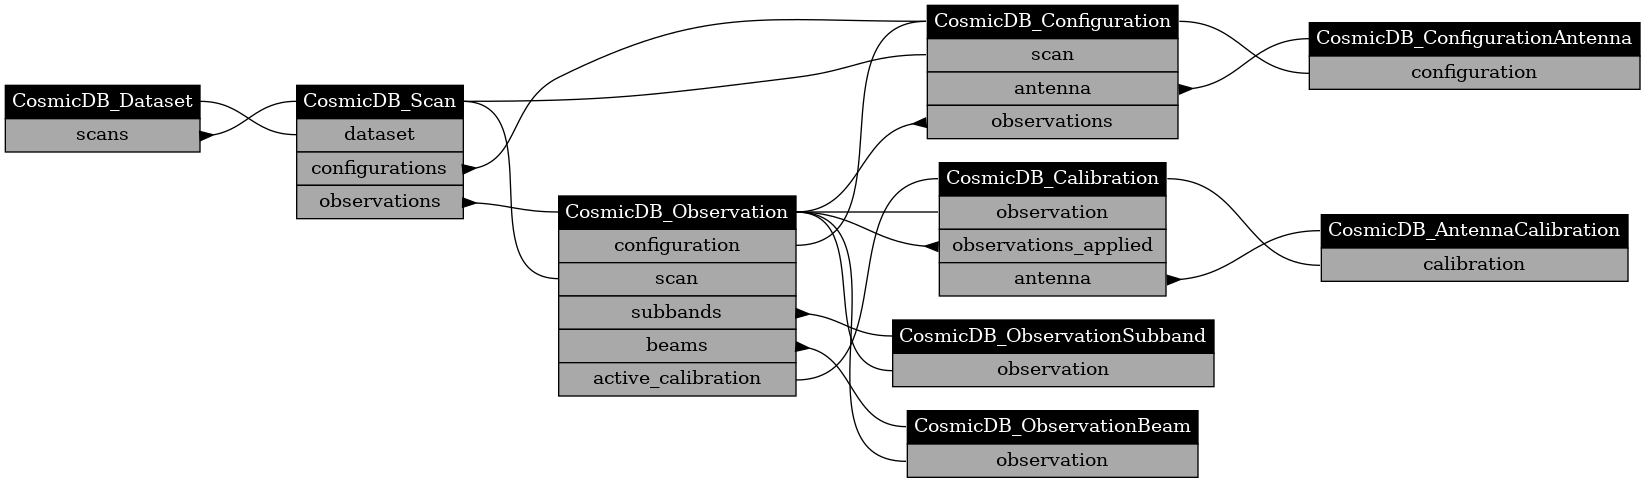
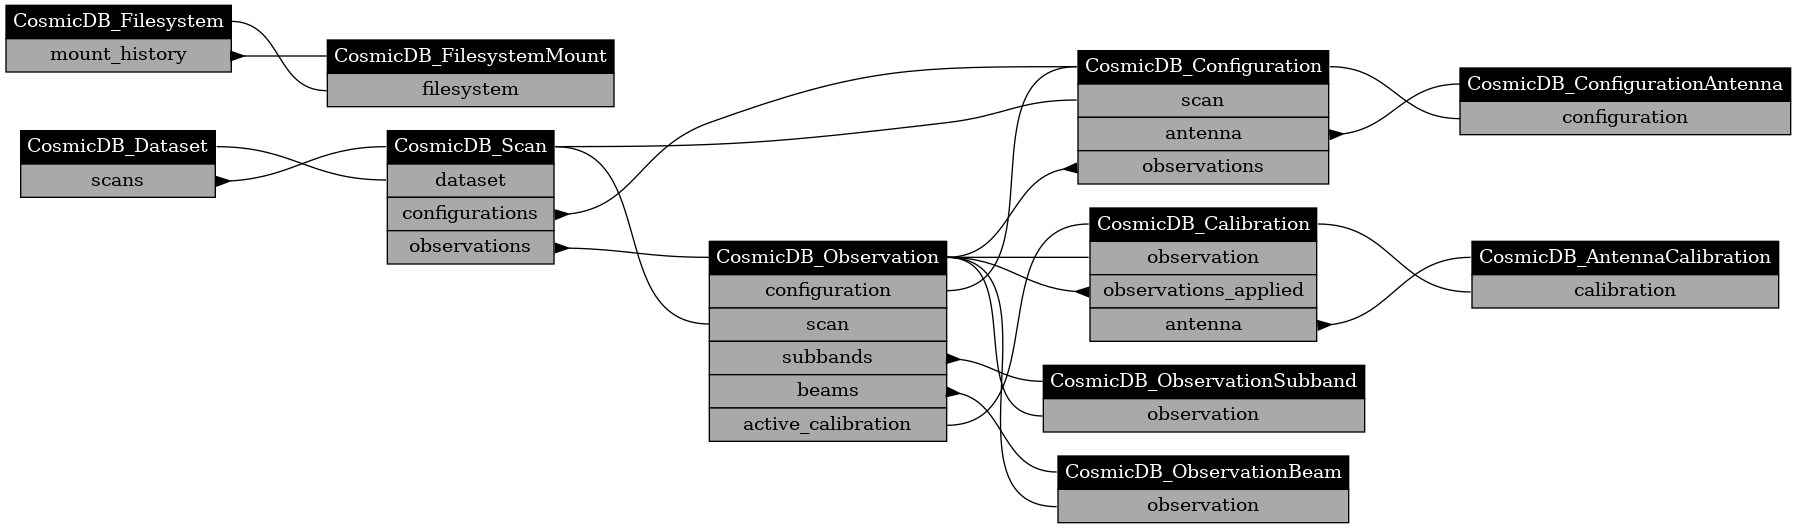
*% Move Filesystem entity to Operational scope

diff --git a/src/cosmic_database/entities.py b/src/cosmic_database/entities.py
@@ -46,6 +46,43 @@ class Base(DeclarativeBase):
         )
     }
 
+    def schema_string(self):
+        lines = [
+            f"{self.__qualname__}",
+            f"Table: '{self.__table__}'",
+            f"Fields:"
+        ]
+
+        value_matrix = []
+        for col in self.__table__.columns:
+            suffix = ''
+            if col.primary_key:
+                suffix +=' (PK)'
+            if len(col.foreign_key) > 0:
+                suffix +=' (FK)'
+            value_matrix.append(
+                [
+                    f"{col.name}{suffix}",
+                    f"{col.type} ({col.type.python_type.__name__})"
+                ]
+            )
+        
+        value_matrix_col_maxes = [
+            max(map(len, (value_row[coli] for value_row in value_matrix)))
+            for coli in range(len(value_matrix[0]))
+        ]
+        lines += [
+            "\t" + " ".join(list(
+                map(lambda iv_tup: iv_tup[1].ljust(value_matrix_col_maxes[iv_tup[0]]), enumerate(value_row))
+            ))
+            for value_row in value_matrix
+        ]
+        lines.append("Relations:")
+        for relation, relationship in self.__mapper__.relationships.items():
+            lines.append(f"\t{relation}: {relationship.mapper.entity.__qualname__}")
+
+        return "\n".join(lines)
+
     def _get_str(
         self,
         verbosity: int = 0,
@@ -288,6 +325,36 @@ class CosmicDB_ObservationBeam(Base):
         back_populates="beams"
     )
 
+class CosmicDB_Filesystem(Base):
+    __tablename__ = f"cosmic_filesystem{TABLE_SUFFIX}"
+    id: Mapped[String_UUID] = mapped_column(primary_key=True)
+    label: Mapped[String_URI]
+
+    # files: Mapped[List["CosmicDB_File"]] = relationship(
+    #     back_populates="filesystem"
+    # )
+
+    mount_history: Mapped[List["CosmicDB_FilesystemMount"]] = relationship(
+        back_populates="filesystem"
+    )
+
+class CosmicDB_FilesystemMount(Base):
+    __tablename__ = f"cosmic_filesystem_mount{TABLE_SUFFIX}"
+
+    id: Mapped[int] = mapped_column(primary_key=True)
+    filesystem_id: Mapped[String_UUID] = mapped_column(ForeignKey(f"{CosmicDB_Filesystem.__tablename__}.id"), index=True)
+
+    host: Mapped[String_URI]
+    host_mountpoint: Mapped[String_URI]
+    start: Mapped[datetime] = mapped_column(index=True)
+    end: Mapped[Optional[datetime]]
+
+    network_uri: Mapped[Optional[String_URI]]
+
+    filesystem: Mapped["CosmicDB_Filesystem"] = relationship(
+        back_populates="mount_history"
+    )
+
 ### Observation Products below ###
 # These are stored in a separate database that is local to the storage medium which can be physically relocated
 
@@ -308,38 +375,6 @@ class CosmicDB_ObservationKey(Base):
         back_populates="observation_key", cascade="all, delete-orphan"
     )
 
-class CosmicDB_Filesystem(Base):
-    __tablename__ = f"cosmic_filesystem{TABLE_SUFFIX}"
-    id: Mapped[int] = mapped_column(primary_key=True)
-
-    uuid: Mapped[String_UUID] = mapped_column(unique=True)
-    label: Mapped[String_URI]
-
-    files: Mapped[List["CosmicDB_File"]] = relationship(
-        back_populates="filesystem"
-    )
-
-    mount_history: Mapped[List["CosmicDB_FilesystemMount"]] = relationship(
-        back_populates="filesystem"
-    )
-
-class CosmicDB_FilesystemMount(Base):
-    __tablename__ = f"cosmic_filesystem_mount{TABLE_SUFFIX}"
-
-    id: Mapped[int] = mapped_column(primary_key=True)
-    filesystem_id: Mapped[int] = mapped_column(ForeignKey(f"{CosmicDB_Filesystem.__tablename__}.id"), index=True)
-
-    host: Mapped[String_URI]
-    host_mountpoint: Mapped[String_URI]
-    start: Mapped[datetime] = mapped_column(index=True)
-    end: Mapped[Optional[datetime]]
-
-    network_uri: Mapped[Optional[String_URI]]
-
-    filesystem: Mapped["CosmicDB_Filesystem"] = relationship(
-        back_populates="mount_history"
-    )
-
 class CosmicDB_File(Base):
     __tablename__ = f"cosmic_file{TABLE_SUFFIX}"
     __table_args__ = (
@@ -348,16 +383,20 @@ class CosmicDB_File(Base):
 
     id: Mapped[int] = mapped_column(primary_key=True)
 
-    filesystem_id: Mapped[int] = mapped_column(ForeignKey(f"{CosmicDB_Filesystem.__tablename__}.id"), index=True)
+    # Dislocated foreign key
+    filesystem_id: Mapped[String_UUID] = mapped_column(
+        # ForeignKey(f"{CosmicDB_Filesystem.__tablename__}.id"),
+        index=True
+    )
     local_uri: Mapped[String_URI] = mapped_column(index=True)
     
     flags: Mapped["CosmicDB_FileFlags"] = relationship(
         back_populates="file",
     )
     
-    filesystem: Mapped["CosmicDB_Filesystem"] = relationship(
-        back_populates="files"
-    )
+    # filesystem: Mapped["CosmicDB_Filesystem"] = relationship(
+    #     back_populates="files"
+    # )
 
 
 class CosmicDB_FileFlags(Base):
@@ -577,11 +616,11 @@ DATABASE_SCOPES = {
         CosmicDB_Observation,
         CosmicDB_ObservationSubband,
         CosmicDB_ObservationBeam,
+        CosmicDB_Filesystem,
+        CosmicDB_FilesystemMount,
     ],
     "Storage": [
         CosmicDB_ObservationKey,
-        CosmicDB_Filesystem,
-        CosmicDB_FilesystemMount,
         CosmicDB_File,
         CosmicDB_FileFlags,
         CosmicDB_ObservationStamp,
@@ -592,12 +631,9 @@ DATABASE_SCOPES = {
 }
 
 SCOPE_BRIDGES = {
-    "Storage": { # From
-        "Operation": { # To
-            CosmicDB_ObservationKey.scan_id: CosmicDB_Scan.id,
-            CosmicDB_ObservationKey.configuration_id: CosmicDB_Configuration.id,
-            CosmicDB_ObservationKey.scan_id: CosmicDB_Observation.id,
-            CosmicDB_ObservationHit.signal_beam: CosmicDB_ObservationBeam.enumeration,
-        }
-    }
+    CosmicDB_ObservationKey.scan_id: CosmicDB_Scan.id,
+    CosmicDB_ObservationKey.configuration_id: CosmicDB_Configuration.id,
+    CosmicDB_ObservationKey.scan_id: CosmicDB_Observation.id,
+    CosmicDB_ObservationHit.signal_beam: CosmicDB_ObservationBeam.enumeration,
+    CosmicDB_File.filesystem_id: CosmicDB_Filesystem.id,
 }

diff --git a/docs/run.py b/docs/run.py
@@ -117,7 +117,7 @@ for db_scope, scope_entities in entities.DATABASE_SCOPES.items():
             td = {
                 "port": attr_name
             }
-            print(f"{class_.__qualname__}.{attr_name}")
+
             display_name = attr_name
             column = class_table.columns[attr_name]
             if column.primary_key:

diff --git a/docs/tables.md b/docs/tables.md
@@ -110,6 +110,29 @@ source | VARCHAR(80) |  |  | X |  |
 start | DATETIME |  |  | X |  | 
 end | DATETIME |  |  |  |  | 
 
+# Table `cosmic_filesystem`
+
+Class [`cosmic_database.entities.CosmicDB_Filesystem`](./classes.md#class-CosmicDB_Filesystem)
+
+Column | Type | Primary Key | Foreign Key(s) | Indexed | Nullable | Unique
+-|-|-|-|-|-|-
+id | VARCHAR(64) | X |  |  |  | 
+label | VARCHAR(255) |  |  |  |  | 
+
+# Table `cosmic_filesystem_mount`
+
+Class [`cosmic_database.entities.CosmicDB_FilesystemMount`](./classes.md#class-CosmicDB_FilesystemMount)
+
+Column | Type | Primary Key | Foreign Key(s) | Indexed | Nullable | Unique
+-|-|-|-|-|-|-
+id | INTEGER | X |  |  |  | 
+filesystem_id | VARCHAR(64) |  | [cosmic_filesystem](#table-cosmic_filesystem).id | X |  | 
+host | VARCHAR(255) |  |  |  |  | 
+host_mountpoint | VARCHAR(255) |  |  |  |  | 
+start | DATETIME |  |  | X |  | 
+end | DATETIME |  |  |  | X | 
+network_uri | VARCHAR(255) |  |  |  | X | 
+
 # Table `cosmic_observation_key`
 
 Class [`cosmic_database.entities.CosmicDB_ObservationKey`](./classes.md#class-CosmicDB_ObservationKey)
@@ -120,30 +143,6 @@ id | INTEGER | X |  |  |  |
 scan_id | VARCHAR(100) |  |  |  |  | 
 configuration_id | INTEGER |  |  |  |  | 
 
-# Table `cosmic_filesystem`
-
-Class [`cosmic_database.entities.CosmicDB_Filesystem`](./classes.md#class-CosmicDB_Filesystem)
-
-Column | Type | Primary Key | Foreign Key(s) | Indexed | Nullable | Unique
--|-|-|-|-|-|-
-id | INTEGER | X |  |  |  | 
-uuid | VARCHAR(64) |  |  |  |  | X
-label | VARCHAR(255) |  |  |  |  | 
-
-# Table `cosmic_filesystem_mount`
-
-Class [`cosmic_database.entities.CosmicDB_FilesystemMount`](./classes.md#class-CosmicDB_FilesystemMount)
-
-Column | Type | Primary Key | Foreign Key(s) | Indexed | Nullable | Unique
--|-|-|-|-|-|-
-id | INTEGER | X |  |  |  | 
-filesystem_id | INTEGER |  | [cosmic_filesystem](#table-cosmic_filesystem).id | X |  | 
-host | VARCHAR(255) |  |  |  |  | 
-host_mountpoint | VARCHAR(255) |  |  |  |  | 
-start | DATETIME |  |  | X |  | 
-end | DATETIME |  |  |  | X | 
-network_uri | VARCHAR(255) |  |  |  | X | 
-
 # Table `cosmic_file`
 
 Class [`cosmic_database.entities.CosmicDB_File`](./classes.md#class-CosmicDB_File)
@@ -151,7 +150,7 @@ Class [`cosmic_database.entities.CosmicDB_File`](./classes.md#class-CosmicDB_Fil
 Column | Type | Primary Key | Foreign Key(s) | Indexed | Nullable | Unique
 -|-|-|-|-|-|-
 id | INTEGER | X |  |  |  | 
-filesystem_id | INTEGER |  | [cosmic_filesystem](#table-cosmic_filesystem).id | X |  | 
+filesystem_id | VARCHAR(64) |  |  | X |  | 
 local_uri | VARCHAR(255) |  |  | X |  | 
 
 # Table `cosmic_file_flags`

diff --git a/docs/classes.md b/docs/classes.md
@@ -123,6 +123,29 @@ ra_radians | `int`
 source | `float`
 start | `str`
 observation | [CosmicDB_Observation](#class-cosmicdb_observation)
+## Class `CosmicDB_Filesystem`
+
+Table [`cosmic_filesystem`](./tables.md#table-cosmic_filesystem)
+
+Attribute | Type
+-|-
+id | `datetime`
+label | `str`
+mount_history | list([CosmicDB_FilesystemMount](#class-cosmicdb_filesystemmount))
+## Class `CosmicDB_FilesystemMount`
+
+Table [`cosmic_filesystem_mount`](./tables.md#table-cosmic_filesystem_mount)
+
+Attribute | Type
+-|-
+end | `str`
+filesystem_id | `datetime`
+host | `str`
+host_mountpoint | `str`
+id | `str`
+network_uri | `int`
+start | `str`
+filesystem | [CosmicDB_Filesystem](#class-cosmicdb_filesystem)
 # Storage Database Scope
 ![Storage Class Diagram](./classes_Storage.png)
 
@@ -137,42 +160,16 @@ id | `int`
 scan_id | `int`
 hits | list([CosmicDB_ObservationHit](#class-cosmicdb_observationhit))
 stamps | list([CosmicDB_ObservationStamp](#class-cosmicdb_observationstamp))
-## Class `CosmicDB_Filesystem`
-
-Table [`cosmic_filesystem`](./tables.md#table-cosmic_filesystem)
-
-Attribute | Type
--|-
-id | `str`
-label | `int`
-uuid | `str`
-files | list([CosmicDB_File](#class-cosmicdb_file))
-mount_history | list([CosmicDB_FilesystemMount](#class-cosmicdb_filesystemmount))
-## Class `CosmicDB_FilesystemMount`
-
-Table [`cosmic_filesystem_mount`](./tables.md#table-cosmic_filesystem_mount)
-
-Attribute | Type
--|-
-end | `str`
-filesystem_id | `datetime`
-host | `int`
-host_mountpoint | `str`
-id | `str`
-network_uri | `int`
-start | `str`
-filesystem | [CosmicDB_Filesystem](#class-cosmicdb_filesystem)
 ## Class `CosmicDB_File`
 
 Table [`cosmic_file`](./tables.md#table-cosmic_file)
 
 Attribute | Type
 -|-
-filesystem_id | `datetime`
-id | `int`
+filesystem_id | `str`
+id | `str`
 local_uri | `int`
 flags | [CosmicDB_FileFlags](#class-cosmicdb_fileflags)
-filesystem | [CosmicDB_Filesystem](#class-cosmicdb_filesystem)
 ## Class `CosmicDB_FileFlags`
 
 Table [`cosmic_file_flags`](./tables.md#table-cosmic_file_flags)
